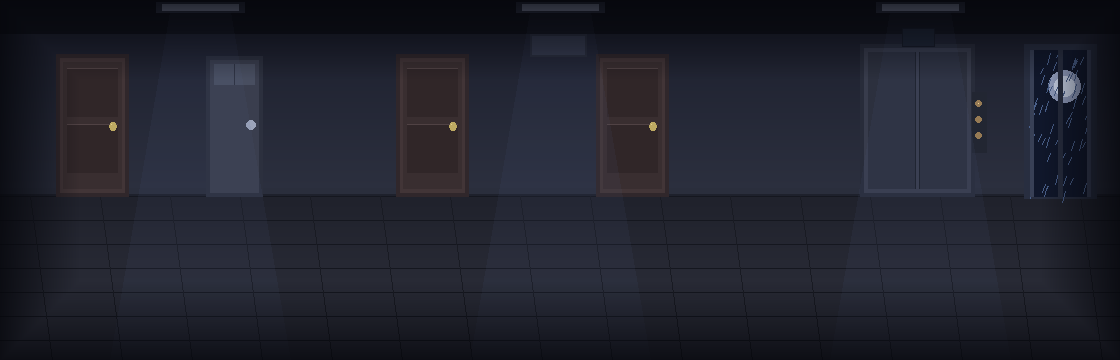
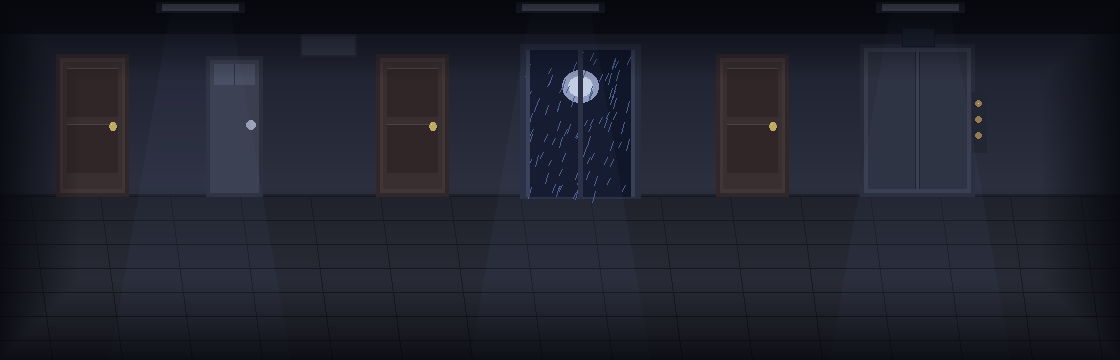
fix: intro cutscene benar-benar tampil (tirai hitam memudar) + lantai 5 harus jalan ke tengah lalu cutscene rooftop, pintu kaca pindah ke tengah lorong

diff --git a/scripts/gen_art_v2.py b/scripts/gen_art_v2.py
@@ -582,9 +582,9 @@ def make_corridor(art):
     d.rectangle([210, 60, 258, 192], fill=(58, 62, 78, 255))
     d.rectangle([214, 64, 254, 84], fill=(72, 78, 96, 255))
     d.line([(234, 64), (234, 84)], fill=(44, 48, 62, 255))
-    d.ellipse([246, 120, 255, 129], fill=(156, 164, 186, 255))
-    wood_door(400, 464)                                    # tetangga A
-    wood_door(600, 664)                                    # tetangga B
+    d.ellipse([246, 120, 255, 129], fill=(156, 164, 186, 255))    # kenop pintu tangga
+    wood_door(380, 444)                                    # tetangga A (kiri-tengah)
+    wood_door(720, 784)                                    # tetangga B (kanan-tengah)
     # Lift (kanan)
     d.rectangle([860, 44, 974, 196], fill=(40, 44, 58, 255))
     d.rectangle([864, 48, 970, 192], fill=(56, 60, 76, 255))
@@ -598,23 +598,24 @@ def make_corridor(art):
     d.point([(978, 103)], fill=(240, 212, 152, 255))
     d.rectangle([902, 28, 934, 46], fill=(18, 22, 32, 255))    # display lantai
     d.rectangle([903, 29, 933, 45], fill=(26, 34, 48, 255))
-    # Papan nomor lantai (frame; teks diisi Label)
-    d.rectangle([530, 34, 586, 56], fill=(38, 42, 56, 255))
-    d.rectangle([532, 36, 584, 54], fill=(52, 57, 74, 255))
+    # Papan nomor lantai (frame; teks diisi Label) — di sisi kiri tengah
+    d.rectangle([300, 34, 356, 56], fill=(38, 42, 56, 255))
+    d.rectangle([302, 36, 354, 54], fill=(52, 57, 74, 255))
 
-    # Pintu balkon atap (ujung kanan lorong) — kaca, hanya berarti di lantai 5
-    d.rectangle([1024, 44, 1096, 198], fill=(40, 46, 64, 255))
-    d.rectangle([1030, 50, 1090, 196], fill=(16, 23, 43, 255))       # kaca
-    d.ellipse([1048, 70, 1080, 102], fill=(150, 162, 194, 255))      # bulan di luar
-    d.ellipse([1054, 76, 1074, 96], fill=(206, 216, 236, 255))
+    # Pintu kaca atap (di TENGAH lorong) — hanya berarti di lantai 5.
+    # Pemain keluar lift di kanan, berjalan ke tengah, lalu cutscene atap.
+    d.rectangle([520, 44, 640, 198], fill=(40, 46, 64, 255))
+    d.rectangle([526, 50, 634, 196], fill=(16, 23, 43, 255))         # kaca
+    d.ellipse([562, 70, 598, 102], fill=(150, 162, 194, 255))        # bulan di luar
+    d.ellipse([568, 76, 592, 96], fill=(206, 216, 236, 255))
     random.seed(303)
-    for _ in range(60):
-        rx = random.randint(1032, 1088)
+    for _ in range(90):
+        rx = random.randint(528, 632)
         ry = random.randint(52, 192)
         d.line([(rx, ry), (rx - 3, ry + random.randint(5, 11))], fill=(74, 96, 138, 255))
-    d.rectangle([1058, 50, 1062, 196], fill=(40, 46, 64, 255))       # daun tengah
-    d.rectangle([1030, 50, 1033, 196], fill=(56, 64, 86, 255))
-    d.rectangle([1087, 50, 1090, 196], fill=(56, 64, 86, 255))
+    d.rectangle([578, 50, 582, 196], fill=(40, 46, 64, 255))         # daun tengah
+    d.rectangle([526, 50, 529, 196], fill=(56, 64, 86, 255))
+    d.rectangle([631, 50, 634, 196], fill=(56, 64, 86, 255))
 
     # Kolam cahaya lampu (lapisan tembus pandang)
     glow = Image.new("RGBA", (W, H), (0, 0, 0, 0))
